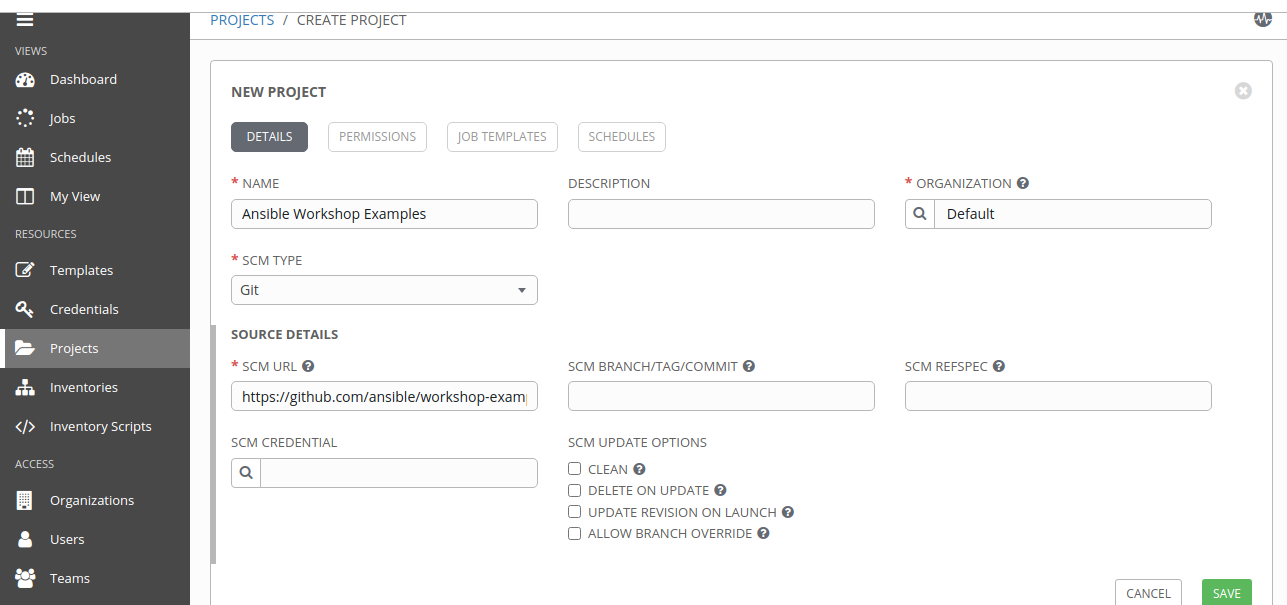
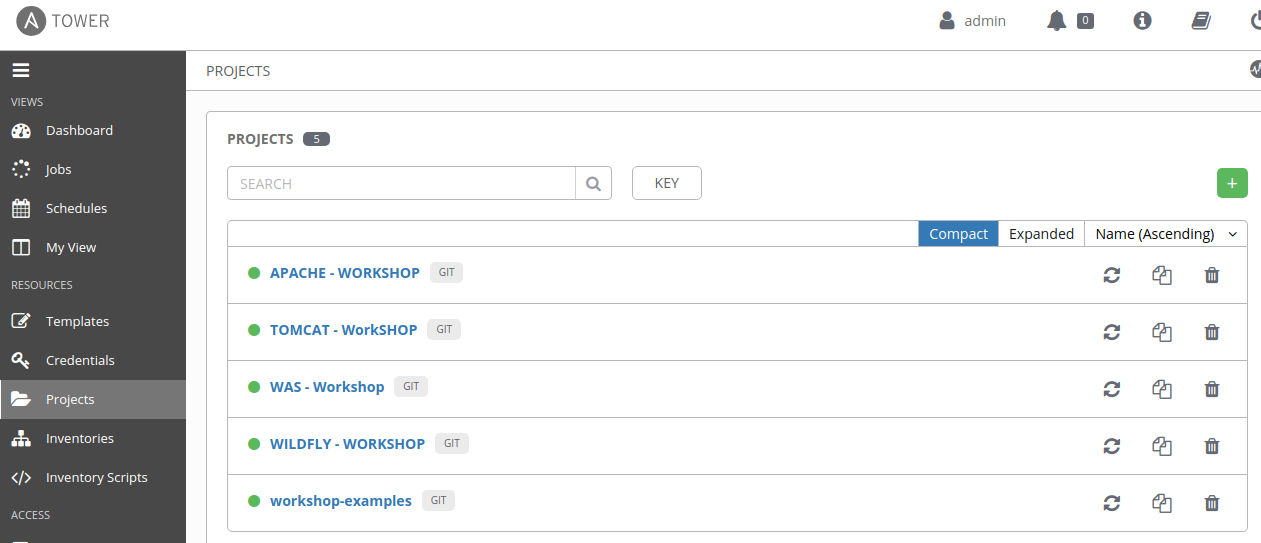
commit

diff --git a/_site/index.html b/_site/index.html
@@ -273,7 +273,7 @@
                 <a href="/docs/devops/ansible/yaml-syntax/" class="nav-list-link">Yaml Syntax</a>
               </li><li class="nav-list-item">
                 <a href="/docs/devops/ansible/ninja/" class="nav-list-link">Ninja 2</a>
-              </li></ul></li><li class="nav-list-item"><a href="/docs/devops/jenkins/" class="nav-list-link">Jenkins</a></li><li class="nav-list-item"><a href="/docs/devops/git/" class="nav-list-link">Git</a></li><li class="nav-list-item"><a href="/docs/devops/jmeter/" class="nav-list-link">Jmeter</a></li><li class="nav-list-item"><a href="/docs/devops/nagios/" class="nav-list-link">Nagios</a></li><li class="nav-list-item"><a href="/docs/devops/appdynamics/" class="nav-list-link">AppDynamics</a></li><li class="nav-list-item"><a href="/docs/devops/docker/" class="nav-list-link">Docker</a></li><li class="nav-list-item"><a href="/docs/devops/vagrant/" class="nav-list-link">Vagrant</a></li><li class="nav-list-item"><a href="/docs/devops/podman/" class="nav-list-link">Podman</a></li><li class="nav-list-item"><a href="/docs/devops/kubernetes/" class="nav-list-link">Kubernetes</a></li><li class="nav-list-item"><a href="/docs/devops/tuning/" class="nav-list-link">Performances Tuning</a></li></ul></li><li class="nav-list-item"><button class="nav-list-expander btn-reset" aria-label="toggle items in Linux category" aria-pressed="false">
+              </li></ul></li><li class="nav-list-item"><a href="/docs/devops/jenkins/" class="nav-list-link">Jenkins</a></li><li class="nav-list-item"><a href="/docs/devops/git/" class="nav-list-link">Git</a></li><li class="nav-list-item"><a href="/docs/devops/gitlab-ci/" class="nav-list-link">Gitlab</a></li><li class="nav-list-item"><a href="/docs/devops/jmeter/" class="nav-list-link">Jmeter</a></li><li class="nav-list-item"><a href="/docs/devops/nagios/" class="nav-list-link">Nagios</a></li><li class="nav-list-item"><a href="/docs/devops/appdynamics/" class="nav-list-link">AppDynamics</a></li><li class="nav-list-item"><a href="/docs/devops/docker/" class="nav-list-link">Docker</a></li><li class="nav-list-item"><a href="/docs/devops/vagrant/" class="nav-list-link">Vagrant</a></li><li class="nav-list-item"><a href="/docs/devops/podman/" class="nav-list-link">Podman</a></li><li class="nav-list-item"><a href="/docs/devops/kubernetes/" class="nav-list-link">Kubernetes</a></li><li class="nav-list-item"><a href="/docs/devops/tuning/" class="nav-list-link">Performances Tuning</a></li></ul></li><li class="nav-list-item"><button class="nav-list-expander btn-reset" aria-label="toggle items in Linux category" aria-pressed="false">
       <svg viewBox="0 0 24 24" aria-hidden="true"><use xlink:href="#svg-arrow-right"></use></svg>
     </button><a href="/docs/linux/" class="nav-list-link">Linux</a><ul class="nav-list"><li class="nav-list-item"><a href="/docs/linux/linux/" class="nav-list-link">Linux</a></li><li class="nav-list-item"><a href="/docs/linux/scripting-shell/" class="nav-list-link">Scripting Shell</a></li><li class="nav-list-item"><a href="/docs/linux/apt-yum-pkg/" class="nav-list-link">APT - Yum - PKG</a></li><li class="nav-list-item"><a href="/docs/linux/memory-cpu/" class="nav-list-link">CPU - Memory</a></li><li class="nav-list-item"><a href="/docs/linux/fs-disk/" class="nav-list-link">File Systems - Disks</a></li><li class="nav-list-item"><a href="/docs/linux/networking/" class="nav-list-link">Networking</a></li><li class="nav-list-item"><a href="/docs/linux/systemd-sysv/" class="nav-list-link">Systemd - sysV</a></li><li class="nav-list-item"><a href="/docs/linux/dns/" class="nav-list-link">DNS</a></li><li class="nav-list-item"><a href="/docs/linux/dhcp/" class="nav-list-link">DHCP</a></li><li class="nav-list-item"><a href="/docs/linux/hardware/" class="nav-list-link">Hardware</a></li><li class="nav-list-item"><a href="/docs/linux/kvm/" class="nav-list-link">KVM</a></li></ul></li><li class="nav-list-item"><button class="nav-list-expander btn-reset" aria-label="toggle items in Data Base category" aria-pressed="false">
       <svg viewBox="0 0 24 24" aria-hidden="true"><use xlink:href="#svg-arrow-right"></use></svg>
@@ -465,6 +465,12 @@
 		<div class="card">
 		  <a href="docs/devops/ansible" >
 		    <img src="docs/images/icon/fa-ansible.png"   alt="">
+			</a>
+		</div>
+	
+		<div class="card">
+		  <a href="docs/devops/ansible/tower" >
+		    <img src="docs/images/icon/fa-ansible-tower.png"   alt="">
 			</a>
 		</div>
 	

diff --git a/_site/404.html b/_site/404.html
@@ -247,7 +247,7 @@
                 <a href="/docs/devops/ansible/yaml-syntax/" class="nav-list-link">Yaml Syntax</a>
               </li><li class="nav-list-item">
                 <a href="/docs/devops/ansible/ninja/" class="nav-list-link">Ninja 2</a>
-              </li></ul></li><li class="nav-list-item"><a href="/docs/devops/jenkins/" class="nav-list-link">Jenkins</a></li><li class="nav-list-item"><a href="/docs/devops/git/" class="nav-list-link">Git</a></li><li class="nav-list-item"><a href="/docs/devops/jmeter/" class="nav-list-link">Jmeter</a></li><li class="nav-list-item"><a href="/docs/devops/nagios/" class="nav-list-link">Nagios</a></li><li class="nav-list-item"><a href="/docs/devops/appdynamics/" class="nav-list-link">AppDynamics</a></li><li class="nav-list-item"><a href="/docs/devops/docker/" class="nav-list-link">Docker</a></li><li class="nav-list-item"><a href="/docs/devops/vagrant/" class="nav-list-link">Vagrant</a></li><li class="nav-list-item"><a href="/docs/devops/podman/" class="nav-list-link">Podman</a></li><li class="nav-list-item"><a href="/docs/devops/kubernetes/" class="nav-list-link">Kubernetes</a></li><li class="nav-list-item"><a href="/docs/devops/tuning/" class="nav-list-link">Performances Tuning</a></li></ul></li><li class="nav-list-item"><button class="nav-list-expander btn-reset" aria-label="toggle items in Linux category" aria-pressed="false">
+              </li></ul></li><li class="nav-list-item"><a href="/docs/devops/jenkins/" class="nav-list-link">Jenkins</a></li><li class="nav-list-item"><a href="/docs/devops/git/" class="nav-list-link">Git</a></li><li class="nav-list-item"><a href="/docs/devops/gitlab-ci/" class="nav-list-link">Gitlab</a></li><li class="nav-list-item"><a href="/docs/devops/jmeter/" class="nav-list-link">Jmeter</a></li><li class="nav-list-item"><a href="/docs/devops/nagios/" class="nav-list-link">Nagios</a></li><li class="nav-list-item"><a href="/docs/devops/appdynamics/" class="nav-list-link">AppDynamics</a></li><li class="nav-list-item"><a href="/docs/devops/docker/" class="nav-list-link">Docker</a></li><li class="nav-list-item"><a href="/docs/devops/vagrant/" class="nav-list-link">Vagrant</a></li><li class="nav-list-item"><a href="/docs/devops/podman/" class="nav-list-link">Podman</a></li><li class="nav-list-item"><a href="/docs/devops/kubernetes/" class="nav-list-link">Kubernetes</a></li><li class="nav-list-item"><a href="/docs/devops/tuning/" class="nav-list-link">Performances Tuning</a></li></ul></li><li class="nav-list-item"><button class="nav-list-expander btn-reset" aria-label="toggle items in Linux category" aria-pressed="false">
       <svg viewBox="0 0 24 24" aria-hidden="true"><use xlink:href="#svg-arrow-right"></use></svg>
     </button><a href="/docs/linux/" class="nav-list-link">Linux</a><ul class="nav-list"><li class="nav-list-item"><a href="/docs/linux/linux/" class="nav-list-link">Linux</a></li><li class="nav-list-item"><a href="/docs/linux/scripting-shell/" class="nav-list-link">Scripting Shell</a></li><li class="nav-list-item"><a href="/docs/linux/apt-yum-pkg/" class="nav-list-link">APT - Yum - PKG</a></li><li class="nav-list-item"><a href="/docs/linux/memory-cpu/" class="nav-list-link">CPU - Memory</a></li><li class="nav-list-item"><a href="/docs/linux/fs-disk/" class="nav-list-link">File Systems - Disks</a></li><li class="nav-list-item"><a href="/docs/linux/networking/" class="nav-list-link">Networking</a></li><li class="nav-list-item"><a href="/docs/linux/systemd-sysv/" class="nav-list-link">Systemd - sysV</a></li><li class="nav-list-item"><a href="/docs/linux/dns/" class="nav-list-link">DNS</a></li><li class="nav-list-item"><a href="/docs/linux/dhcp/" class="nav-list-link">DHCP</a></li><li class="nav-list-item"><a href="/docs/linux/hardware/" class="nav-list-link">Hardware</a></li><li class="nav-list-item"><a href="/docs/linux/kvm/" class="nav-list-link">KVM</a></li></ul></li><li class="nav-list-item"><button class="nav-list-expander btn-reset" aria-label="toggle items in Data Base category" aria-pressed="false">
       <svg viewBox="0 0 24 24" aria-hidden="true"><use xlink:href="#svg-arrow-right"></use></svg>

diff --git a/docs/devops/gitlab-ci.md b/docs/devops/gitlab-ci.md
@@ -1,0 +1,122 @@
+---
+layout: default
+title: Gitlab
+parent: DevOps
+nav_order: 2.8
+---
+
+
+## Gitlab
+---------------------------------
+### Install on Redhat 8
+~~~sh
+sudo dnf install -y curl policycoreutils openssh-server perl
+sudo systemctl enable sshd
+sudo systemctl start sshd
+sudo firewall-cmd --permanent --add-service=http
+sudo firewall-cmd --permanent --add-service=https
+sudo systemctl reload firewalld
+curl https://packages.gitlab.com/install/repositories/gitlab/gitlab-ee/script.rpm.sh | sudo bash
+sudo EXTERNAL_URL="https://gitlab.safarit.com" dnf install -y gitlab-ee
+~~~
+
+
+### Config
+
+Edit `/etc/gitlab/gitlab.rb`: 
+~~~
+external_url 'http://gitlab.safarit.com'
+~~~
+
+Apply  config modif: 
+~~~sh
+sudo gitlab-ctl reconfigure
+~~~
+
+### Start/Stop
+~~~sh
+gitlab-ctl start|status
+~~~
+
+### Console 
+Url : http://gitlab.safarit.com/
+
+User : root
+
+Password: In /etc/gitlab/initial_root_password
+
+## Runners
+-------------------------------
+GitLab Runner is an application that works with GitLab CI/CD to run jobs in a pipeline.
+
+
+### Install a Runner on RHEL 8
+~~~sh
+ curl -LJO "https://s3.dualstack.us-east-1.amazonaws.com/gitlab-runner-downloads/latest/rpm/gitlab-runner_amd64.rpm"
+ dnf install git -y
+ rpm -i gitlab-runner_amd64.rpm
+
+ ~~~
+
+### Register a Runner
+
+1. Gitlab Console: `Your_Project> Settings > CI/CD > Runners > new project runner` 
+
+2. Register the created runner
+~~~sh
+gitlab-runner register  --url http://gitlab.safarit.com  --token glrt-dxnxs_C_ocwff9zQYmSS
+~~~
+
+3. Runner config will be set in `/etc/gitlab-runner/config.toml` 
+
+4. See Runners: `Your_Project › Settings  › CI/CD  › Runners`
+
+![a](/docs/images/gitlab-runners.png)
+
+## Pipelines
+--------------------------
+Pipelines are defined in `.gitlab-ci.yml` file at the root of the project.
+
+a Pipeline are structred as stages(compile, test, deploy) and jobs within stages:
+  - **Stages** run sequentially. 
+  - **Jobs** within the same stage run concurrently.
+
+Example:
+~~~yaml
+stages:          # List of stages for jobs, and their order of execution
+  - build
+  - test
+  - deploy
+
+include:
+  - template: Security/Dependency-Scanning.gitlab-ci.yml
+
+build-job:       # This job runs in the build stage, which runs first.
+  stage: build
+  script:
+    - mvn package
+
+unit-test-job:   
+  stage: test    
+  script:
+    - echo "Running unit tests... This will take about 60 seconds."
+    - sleep 60
+    - echo "Code coverage is 90%"
+
+deploy-job:     
+  environment: production 
+  stage: deploy  
+  script:
+    - echo "Deploying application..."
+    - echo "Application successfully deployed."
+~~~
+
+![a](/docs/images/gitlab-pipeline.png)
+
+
+
+
+
+
+
+

diff --git a/docs/devops/ansible/tower.md b/docs/devops/ansible/tower.md
@@ -6,7 +6,6 @@ grand_parent: DevOps
 nav_order: 5
 ---
 
-<h1>UNDER CONSTRUCTION!</h1>
 
 ### Getting Started
 **Ansible Tower** knwon as Red Hat **Ansible Automation Platform** is a console interface for Ansible.
@@ -46,7 +45,11 @@ OR
 
 ### Create a Project
 - SCM URL: https://github.com/ansible/workshop-examples.git
+![to](/docs/images/ansible-tower-create-project.png)
+
+List of Projects:
 ![to](/docs/images/ansible-tower-projects.png)
+
 
 ### Create a Job Template and Run a Job
 - CREATE JOB TEMPLATE
@@ -55,13 +58,23 @@ OR
   - CREDENTIALS: dev-creds
   - PROJECT: Ansible Workshop Examples
   - PLAYBOOK: apache_install.yml
-![to](/docs/images/ansible-tower-template.png)
+![to](/docs/images/ansible-tower-create-template.png)
+
+List of templates:
+![to](/docs/images/ansible-tower-templates.png)
 
 ### Workflow Template
 ![to](/docs/images/ansible-tower-workflow-template.png)
 
 ### Variables
 ![to](/docs/images/ansible-tower-variables.png)
+
+### Add Approval to workflow 
+Add Approval to Workflow. outgoing Link  must be "on success" run type. 
+![to](/docs/images/ansible-tower-approval.png)
+
+When you run your worflow, you will have a notification to approve or deny:
+![to](/docs/images/ansible-tower-approval-notification.png)
 
 ### Trial Download
 <a>http://www.ansible.com/tower-trial</a>
@@ -103,7 +116,7 @@ ansible-tower-service restart
 Console: https://TOWER_SERVER_NAME/
 - admin/changeit
 
-Config: 
+### Config Files 
 - /etc/tower/conf.d/
 
 ### Error logs
@@ -117,6 +130,11 @@ Error : ERR_SSL_KEY_USAGE_INCOMPATIBLE
 See: https://access.redhat.com/solutions/6955072
 
 See: https://docs.ansible.com/ansible-tower/latest/html/administration/troubleshooting.html#error-logs
+
+### Reset Admin Password
+~~~sh
+# awx-manage changepassword admin
+~~~
 
 ### Docs
 - Excellent Ansible Workshops: https://redhatgov.io/workshops/ansible_automation
